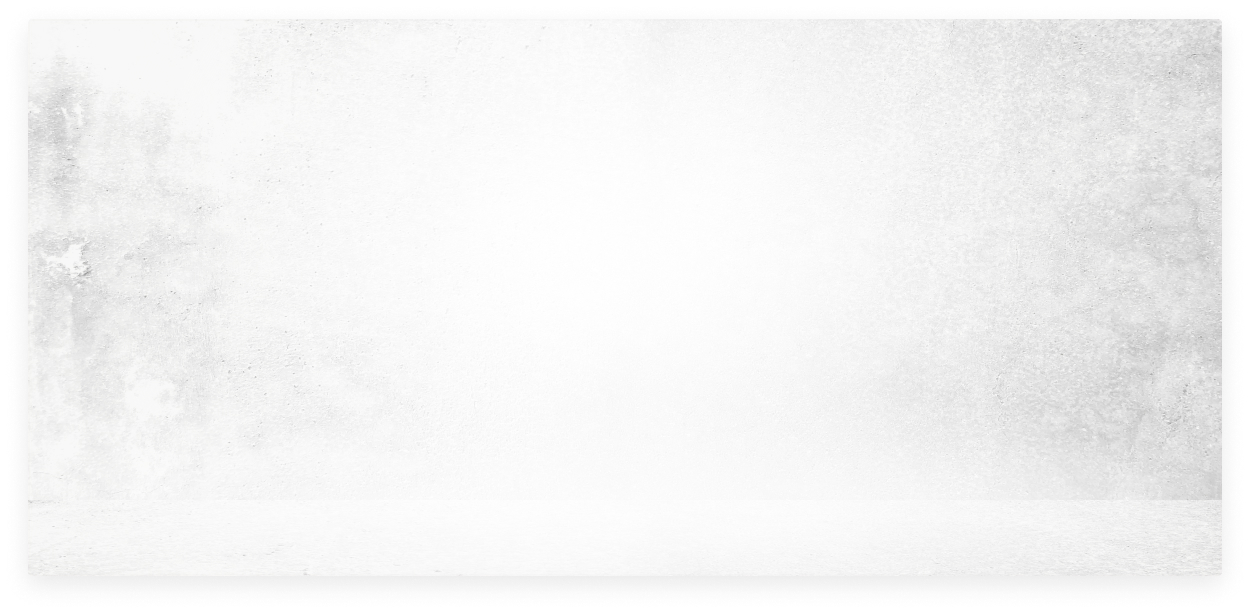
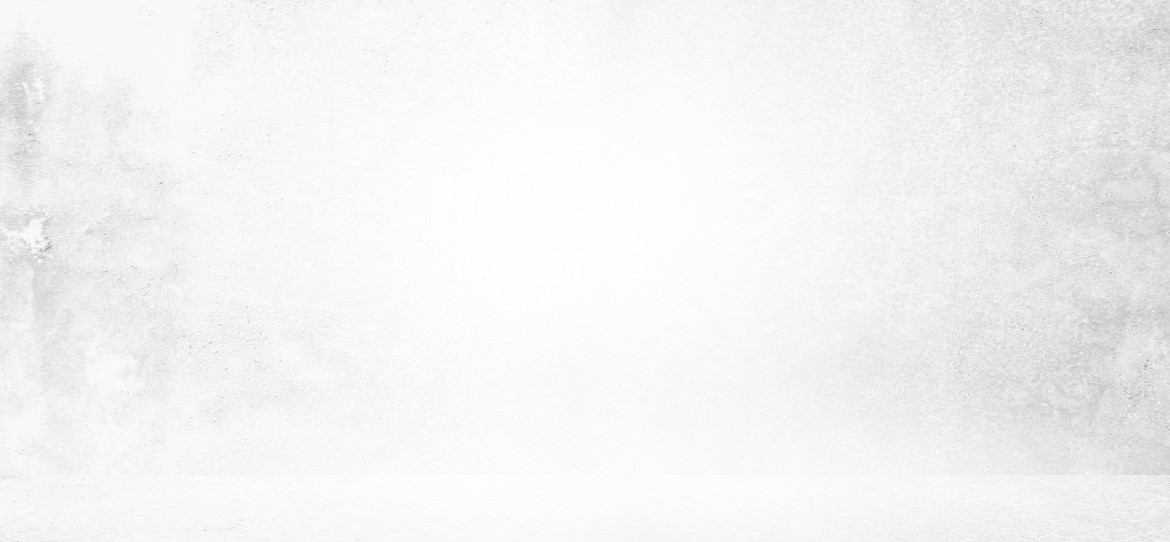
Fixed biography bg and create gellery.js

diff --git a/js/gallery.js b/js/gallery.js
@@ -10,9 +10,6 @@ let galleryImages = document.querySelectorAll(".gallery__img");
 let getLatestOpenedImg;
 let windowWidth = window.innerWidth;
 
-// Interier variables
-let interierImages = document.querySelectorAll(".interier__img");
-
 // Close menu on icon
 burger.onclick = function () {
 	burger.classList.toggle("active");
@@ -34,20 +31,6 @@ document.querySelectorAll(".header__name, .header__link").forEach(n => n.addEven
 	burger.classList.remove("active");
 	menu.classList.remove("active");
 }))
-
-// Biography readmore button
-var i = 0;
-function readmore() {
-	if (!i) {
-		document.querySelector(".biography__moretext").style.display = "inline";
-		document.querySelector(".biography__button").innerHTML = "Дізнатись менше";
-		i = 1;
-	} else {
-		document.querySelector(".biography__moretext").style.display = "none";
-		document.querySelector(".biography__button").innerHTML = "Дізнатись більше";
-		i = 0;
-	}
-}
 
 // Gallery Images
 if (galleryImages) {
@@ -73,7 +56,7 @@ if (galleryImages) {
 			// Insert image inside window
 			let newImg = document.createElement("img");
 			newImgWindow.appendChild(newImg);
-			newImg.setAttribute("src", "img/gallery/" + setNewImgUrl);
+			newImg.setAttribute("src", "/img/gallery/" + setNewImgUrl);
 			newImg.setAttribute("id", "current-image");
 
 			// Prev/Next buttons
@@ -133,101 +116,7 @@ function changeImg(changeDir) {
 			calcNewImg = galleryImages.length;
 		}
 	}
-	newImg.setAttribute("src", "img/gallery/img_" + calcNewImg + ".jpg");
-	newImg.setAttribute("id", "current-image");
-
-	// Adjust our global variable "getLatestOpenedImg"
-	getLatestOpenedImg = calcNewImg;
-
-	// Change the button positions
-	newImg.onload = function () {
-		let imgWidth = this.width;
-		let calcImgToEdge = ((windowWidth - imgWidth) / 2) - 80;
-
-		let nextBtn = document.querySelector(".img-btn-next");
-		nextBtn.style.cssText = "right: " + calcImgToEdge + "px;";
-
-		let prevBtn = document.querySelector(".img-btn-prev");
-		prevBtn.style.cssText = "left: " + calcImgToEdge + "px;";
-	}
-}
-
-// Interier Images
-if (interierImages) {
-	// Create onclick function for each image
-	interierImages.forEach(function (image, index) {
-		image.onclick = function () {
-			// Get the image URL from our element CSS
-			let getElementCss = window.getComputedStyle(image);
-			let getFullImgUrl = getElementCss.getPropertyValue('background-image');
-			let getImgUrlPos = getFullImgUrl.split("/img/interier/");
-			let setNewImgUrl = getImgUrlPos[1].replace('")', '');
-
-			// Save the image nr to use later with prev/next buttons
-			getLatestOpenedImg = index + 1;
-
-			// Create a popup window
-			let container = document.body;
-			let newImgWindow = document.createElement("div");
-			container.appendChild(newImgWindow);
-			newImgWindow.setAttribute("class", "img-window");
-			newImgWindow.setAttribute("onclick", "closeImg()");
-
-			// Insert image inside window
-			let newImg = document.createElement("img");
-			newImgWindow.appendChild(newImg);
-			newImg.setAttribute("src", "img/interier/" + setNewImgUrl);
-			newImg.setAttribute("id", "current-image");
-
-			// Prev/Next buttons
-			newImg.onload = function () {
-				let imgWidth = this.width;
-				let calcImgToEdge = ((windowWidth - imgWidth) / 2) - 80;
-
-				let newNextBtn = document.createElement("a");
-				let btnNextText = document.createTextNode(">");
-				newNextBtn.appendChild(btnNextText);
-				container.appendChild(newNextBtn);
-				newNextBtn.setAttribute("class", "img-btn-next");
-				newNextBtn.setAttribute("onclick", "changeImgInterier(1)");
-				newNextBtn.style.cssText = "right: " + calcImgToEdge + "px;";
-
-				let newPrevBtn = document.createElement("a");
-				let btnPrevText = document.createTextNode("<");
-				newPrevBtn.appendChild(btnPrevText);
-				container.appendChild(newPrevBtn);
-				newPrevBtn.setAttribute("class", "img-btn-prev");
-				newPrevBtn.setAttribute("onclick", "changeImgInterier(0)");
-				newPrevBtn.style.cssText = "left: " + calcImgToEdge + "px;";
-			}
-		}
-	});
-}
-
-function changeImgInterier(changeDir) {
-	// Remove current image
-	document.querySelector("#current-image").remove();
-
-	// Generate new image
-	let getImgWindow = document.querySelector(".img-window");
-	let newImg = document.createElement("img");
-	getImgWindow.appendChild(newImg);
-
-	// Set new image "src"
-	let calcNewImg;
-	if (changeDir === 1) {
-		calcNewImg = getLatestOpenedImg + 1;
-		if (calcNewImg > interierImages.length) {
-			calcNewImg = 1;
-		}
-	}
-	else if (changeDir === 0) {
-		calcNewImg = getLatestOpenedImg - 1;
-		if (calcNewImg < 1) {
-			calcNewImg = interierImages.length;
-		}
-	}
-	newImg.setAttribute("src", "img/interier/img_" + calcNewImg + ".png");
+	newImg.setAttribute("src", "/img/gallery/img_" + calcNewImg + ".jpg");
 	newImg.setAttribute("id", "current-image");
 
 	// Adjust our global variable "getLatestOpenedImg"

diff --git a/css/style.css b/css/style.css
@@ -309,10 +309,10 @@ header a {
 /* Biography */
 
 .biography__body {
-	/* background-image: url("../img/background-decor/paint.png"); */
-	/* background-repeat: no-repeat; */
-	/* background-position: 31.5% 103%; */
-	/* padding: 0px 0px 100px 0px; */
+	background-image: url("../img/background-decor/paint.png");
+	background-repeat: no-repeat;
+	background-position: 31.5% 103%;
+	padding: 0px 0px 100px 0px;
 	margin: 0px 0px 80px 0px;
 }
 
@@ -471,7 +471,6 @@ header a {
 			"img_8";
 		gap: 15px;
 	}
-
 	.gallery__button {
 		width: 100%;
 	}

diff --git a/html/gallery.html b/html/gallery.html
@@ -93,6 +93,6 @@
 				<p>+38(097)93 729 19</p>
 			</div>
 		</footer>
-		<script src="../js/script.js"></script>
+		<script src="../js/gallery.js"></script>
 	</body>
 </html>

diff --git a/css/gallery.css b/css/gallery.css
@@ -242,7 +242,7 @@ header a {
 /* Gallery */
 
 .gallery {
-	padding: 100px 0px 0px 0px;
+	margin: 100px 0px -70px 0px;
 }
 
 .gallery__title {
